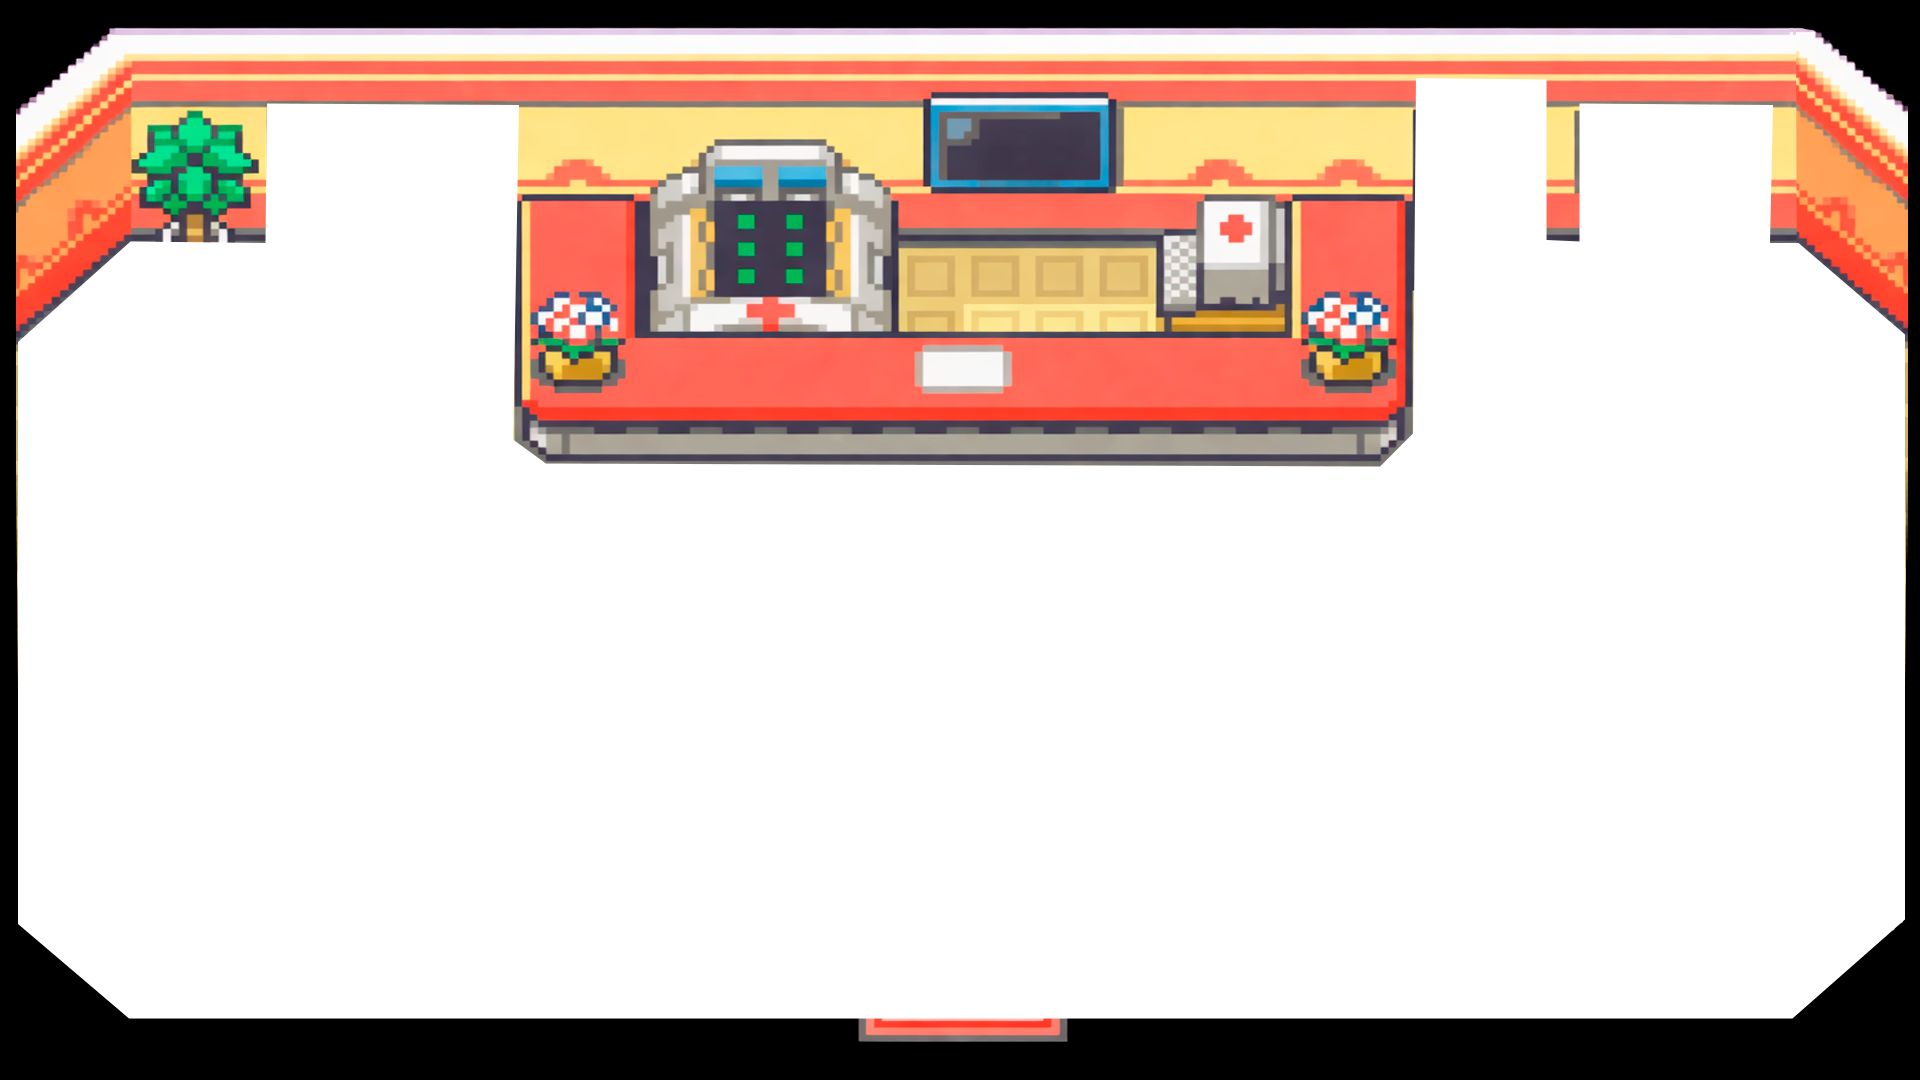
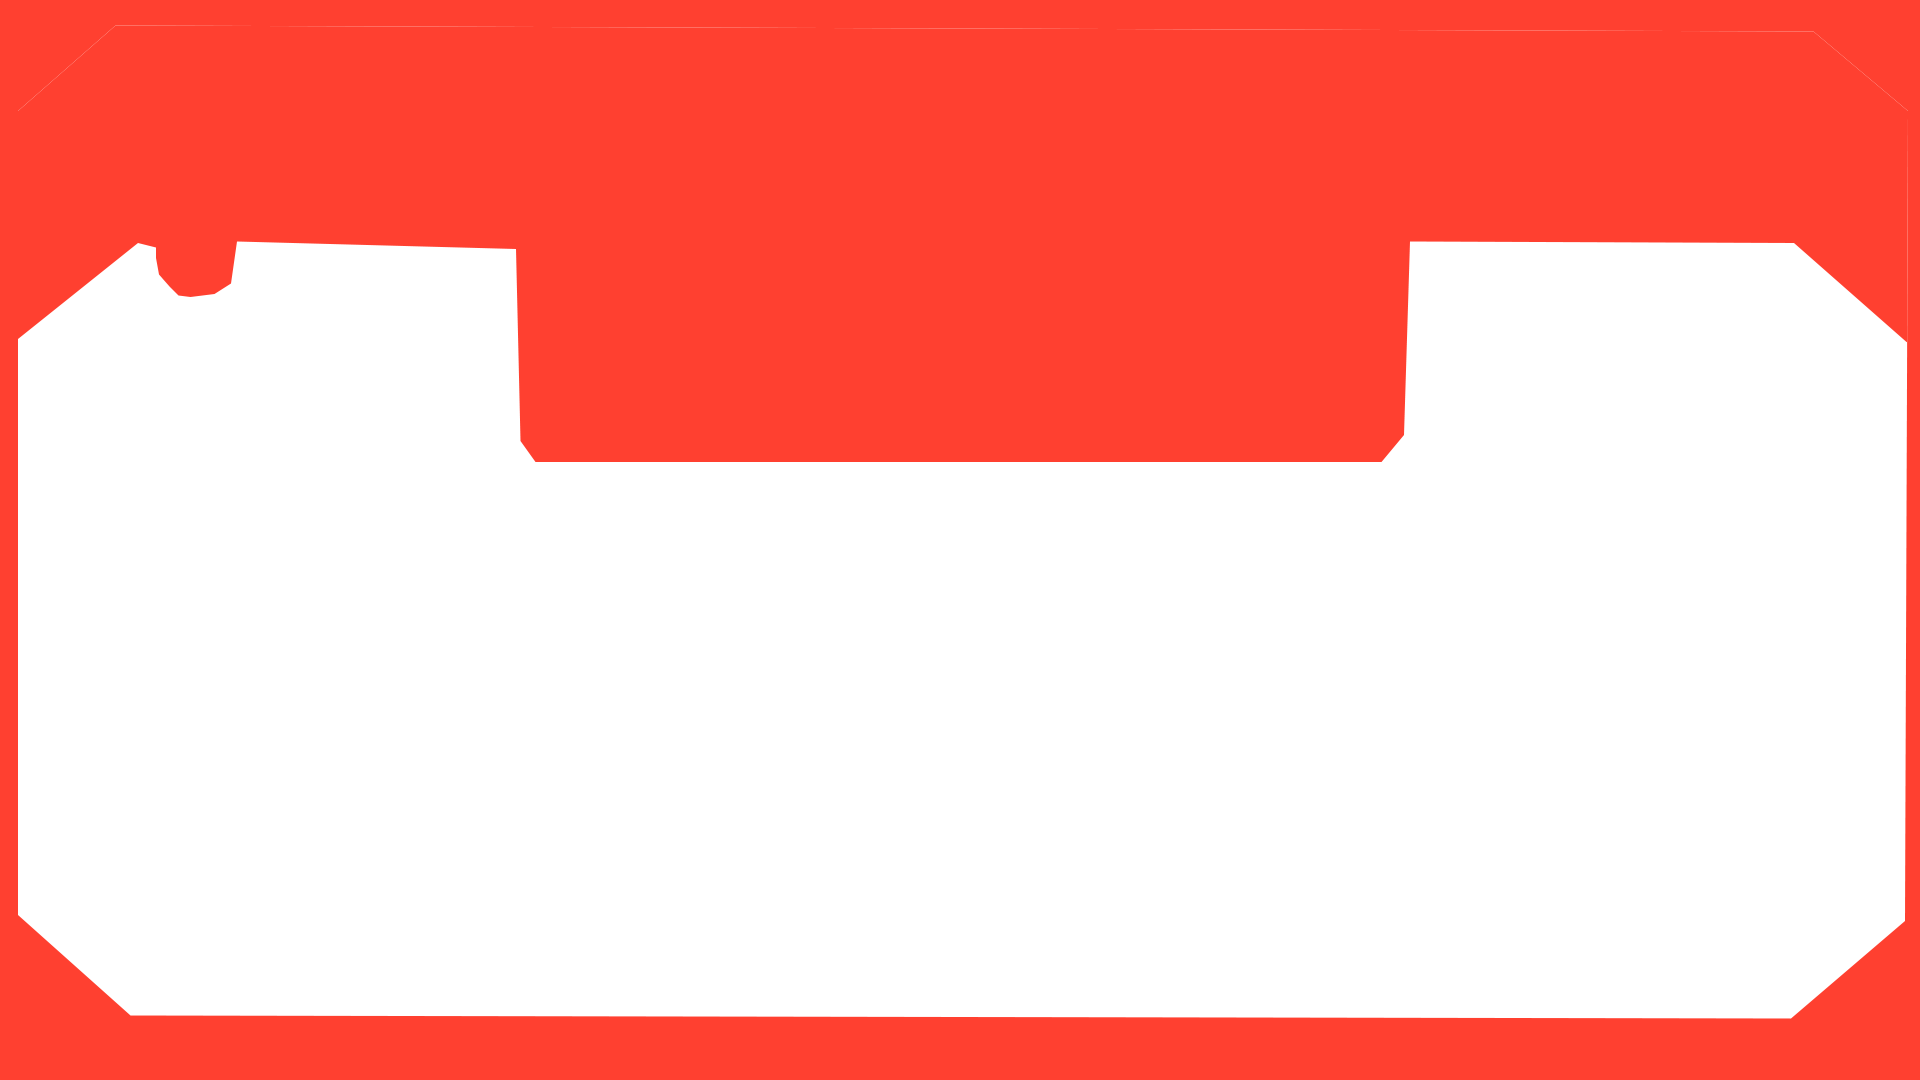
Commit Pablo Profe bgtransitable fallos

diff --git a/scripts.js b/scripts.js
@@ -17,8 +17,9 @@ const WALK_FRAME_DURATION = 140;
 const RUN_FRAME_DURATION = 90;
 const CLICK_STOP_DISTANCE = 6;
 const SHOW_COLLISION_DEBUG = true;
+const SHOW_WALKABLE_BOUNDARY = true;
 const RUN_KEY = "z";
-const WALKABLE_WHITE_THRESHOLD = 250;
+const ASSET_VERSION = Date.now();
 
 const viewport = {
     dpr: window.devicePixelRatio || 1,
@@ -61,6 +62,8 @@ let frameTimer = 0;
 let target = null;
 let isRunning = false;
 let walkableMaskData = null;
+let maskCollisionRects = [];
+let walkableBoundaryCanvas = null;
 const movementKeyOrder = [];
 
 backgroundCtx.imageSmoothingEnabled = false;
@@ -68,7 +71,8 @@ ctx.imageSmoothingEnabled = false;
 
 function loadSprite(src) {
     const image = new Image();
-    image.src = src;
+    const separator = src.includes("?") ? "&" : "?";
+    image.src = `${src}${separator}v=${ASSET_VERSION}`;
     return image;
 }
 
@@ -131,6 +135,8 @@ function handleAssetReady(image) {
 function cacheWalkableMask() {
     if (!assets.walkableMask.complete || !assets.walkableMask.naturalWidth) {
         walkableMaskData = null;
+        maskCollisionRects = [];
+        walkableBoundaryCanvas = null;
         return;
     }
 
@@ -142,6 +148,135 @@ function cacheWalkableMask() {
     maskCtx.imageSmoothingEnabled = false;
     maskCtx.drawImage(assets.walkableMask, 0, 0);
     walkableMaskData = maskCtx.getImageData(0, 0, maskCanvas.width, maskCanvas.height);
+    buildMaskCollisionRects();
+    cacheWalkableBoundary();
+    backgroundDirty = true;
+
+    if (!canMoveTo(player.x, player.y)) {
+        placePlayerAtRoomCenter();
+    }
+}
+
+function isCollisionMaskColor(data, pixelIndex) {
+    const alpha = data[pixelIndex + 3];
+
+    // The collision mask is authored as a dedicated overlay, so any visible pixel
+    // in bgtransitable should block movement regardless of slight color variation.
+    return alpha > 0;
+}
+
+function buildMaskCollisionRects() {
+    if (!walkableMaskData) {
+        maskCollisionRects = [];
+        return;
+    }
+
+    const maskWidth = walkableMaskData.width;
+    const maskHeight = walkableMaskData.height;
+    const sourceData = walkableMaskData.data;
+    const rects = [];
+    let activeRuns = new Map();
+
+    for (let y = 0; y < maskHeight; y++) {
+        const continuedRuns = new Map();
+        let x = 0;
+
+        while (x < maskWidth) {
+            const pixelIndex = (y * maskWidth + x) * 4;
+
+            if (!isCollisionMaskColor(sourceData, pixelIndex)) {
+                x += 1;
+                continue;
+            }
+
+            const startX = x;
+            x += 1;
+
+            while (x < maskWidth) {
+                const nextPixelIndex = (y * maskWidth + x) * 4;
+
+                if (!isCollisionMaskColor(sourceData, nextPixelIndex)) {
+                    break;
+                }
+
+                x += 1;
+            }
+
+            const runWidth = x - startX;
+            const runKey = `${startX}:${runWidth}`;
+            const existingRect = activeRuns.get(runKey);
+
+            if (existingRect) {
+                existingRect.height += 1;
+                continuedRuns.set(runKey, existingRect);
+                activeRuns.delete(runKey);
+                continue;
+            }
+
+            const newRect = {
+                x: startX,
+                y,
+                width: runWidth,
+                height: 1
+            };
+
+            rects.push(newRect);
+            continuedRuns.set(runKey, newRect);
+        }
+
+        activeRuns = continuedRuns;
+    }
+
+    maskCollisionRects = rects;
+}
+
+function cacheWalkableBoundary() {
+    if (!walkableMaskData) {
+        walkableBoundaryCanvas = null;
+        return;
+    }
+
+    const boundaryCanvas = document.createElement("canvas");
+    boundaryCanvas.width = walkableMaskData.width;
+    boundaryCanvas.height = walkableMaskData.height;
+
+    const boundaryCtx = boundaryCanvas.getContext("2d");
+    const boundaryImageData = boundaryCtx.createImageData(boundaryCanvas.width, boundaryCanvas.height);
+    const sourceData = walkableMaskData.data;
+    const boundaryData = boundaryImageData.data;
+    const rowStride = boundaryCanvas.width * 4;
+
+    for (let y = 0; y < boundaryCanvas.height; y++) {
+        for (let x = 0; x < boundaryCanvas.width; x++) {
+            const pixelIndex = (y * boundaryCanvas.width + x) * 4;
+
+            if (!isCollisionMaskColor(sourceData, pixelIndex)) {
+                continue;
+            }
+
+            const touchesOutside =
+                x === 0 ||
+                y === 0 ||
+                x === boundaryCanvas.width - 1 ||
+                y === boundaryCanvas.height - 1 ||
+                !isCollisionMaskColor(sourceData, pixelIndex - 4) ||
+                !isCollisionMaskColor(sourceData, pixelIndex + 4) ||
+                !isCollisionMaskColor(sourceData, pixelIndex - rowStride) ||
+                !isCollisionMaskColor(sourceData, pixelIndex + rowStride);
+
+            if (!touchesOutside) {
+                continue;
+            }
+
+            boundaryData[pixelIndex] = 255;
+            boundaryData[pixelIndex + 1] = 244;
+            boundaryData[pixelIndex + 2] = 92;
+            boundaryData[pixelIndex + 3] = 255;
+        }
+    }
+
+    boundaryCtx.putImageData(boundaryImageData, 0, 0);
+    walkableBoundaryCanvas = boundaryCanvas;
 }
 
 Object.values(assets).forEach((image) => {
@@ -247,48 +382,12 @@ function collidesWithObstacle(hitbox) {
     return collisionRects.some((obstacle) => rectanglesOverlap(hitbox, obstacle));
 }
 
-function isWalkablePixel(worldX, worldY) {
-    if (!walkableMaskData) {
-        return !collidesWithObstacle({
-            x: worldX,
-            y: worldY,
-            width: 1,
-            height: 1
-        });
-    }
-
-    const pixelX = Math.max(0, Math.min(WORLD_WIDTH - 1, Math.round(worldX)));
-    const pixelY = Math.max(0, Math.min(WORLD_HEIGHT - 1, Math.round(worldY)));
-    const pixelIndex = (pixelY * walkableMaskData.width + pixelX) * 4;
-    const data = walkableMaskData.data;
-    const alpha = data[pixelIndex + 3];
-
-    if (alpha === 0) {
+function collidesWithMask(hitbox) {
+    if (!maskCollisionRects.length) {
         return false;
     }
 
-    return (
-        data[pixelIndex] >= WALKABLE_WHITE_THRESHOLD &&
-        data[pixelIndex + 1] >= WALKABLE_WHITE_THRESHOLD &&
-        data[pixelIndex + 2] >= WALKABLE_WHITE_THRESHOLD
-    );
-}
-
-function isWalkableHitbox(hitbox) {
-    const startX = Math.max(0, Math.floor(hitbox.x));
-    const startY = Math.max(0, Math.floor(hitbox.y));
-    const endX = Math.min(WORLD_WIDTH - 1, Math.ceil(hitbox.x + hitbox.width) - 1);
-    const endY = Math.min(WORLD_HEIGHT - 1, Math.ceil(hitbox.y + hitbox.height) - 1);
-
-    for (let sampleY = startY; sampleY <= endY; sampleY++) {
-        for (let sampleX = startX; sampleX <= endX; sampleX++) {
-            if (!isWalkablePixel(sampleX, sampleY)) {
-                return false;
-            }
-        }
-    }
-
-    return true;
+    return maskCollisionRects.some((obstacle) => rectanglesOverlap(hitbox, obstacle));
 }
 
 function canMoveTo(nextX, nextY) {
@@ -302,7 +401,7 @@ function canMoveTo(nextX, nextY) {
     }
 
     const playerHitbox = getPlayerHitbox(nextX, nextY);
-    return isWalkableHitbox(playerHitbox) && !collidesWithObstacle(playerHitbox);
+    return !collidesWithMask(playerHitbox) && !collidesWithObstacle(playerHitbox);
 }
 
 function placePlayerAtRoomCenter() {
@@ -357,6 +456,16 @@ function drawBackground(worldRect) {
         worldRect.width,
         worldRect.height
     );
+
+    if (SHOW_WALKABLE_BOUNDARY && walkableBoundaryCanvas) {
+        backgroundCtx.drawImage(
+            walkableBoundaryCanvas,
+            worldRect.x,
+            worldRect.y,
+            worldRect.width,
+            worldRect.height
+        );
+    }
 }
 
 function drawNpc(worldRect) {
@@ -445,6 +554,29 @@ function drawCollisionDebug(worldRect) {
     ctx.save();
     ctx.lineWidth = 1;
 
+    if (assets.walkableMask.complete && assets.walkableMask.naturalWidth) {
+        ctx.save();
+        ctx.globalAlpha = 0.18;
+        ctx.drawImage(
+            assets.walkableMask,
+            worldRect.x,
+            worldRect.y,
+            worldRect.width,
+            worldRect.height
+        );
+        ctx.restore();
+    }
+
+    if (walkableBoundaryCanvas) {
+        ctx.drawImage(
+            walkableBoundaryCanvas,
+            worldRect.x,
+            worldRect.y,
+            worldRect.width,
+            worldRect.height
+        );
+    }
+
     collisionRects.forEach((obstacle) => {
         const screenX = Math.round(worldToScreenX(obstacle.x, worldRect));
         const screenY = Math.round(worldToScreenY(obstacle.y, worldRect));
@@ -462,6 +594,8 @@ function drawCollisionDebug(worldRect) {
     const playerScreenY = Math.round(worldToScreenY(playerHitbox.y, worldRect));
     const playerScreenWidth = Math.max(1, Math.round(worldToScreenWidth(playerHitbox.width, worldRect)));
     const playerScreenHeight = Math.max(1, Math.round(worldToScreenHeight(playerHitbox.height, worldRect)));
+    const isMaskCollisionActive = collidesWithMask(playerHitbox);
+    const isRectCollisionActive = collidesWithObstacle(playerHitbox);
 
     ctx.strokeStyle = "rgba(0, 255, 160, 0.95)";
     ctx.strokeRect(
@@ -472,13 +606,15 @@ function drawCollisionDebug(worldRect) {
     );
 
     ctx.fillStyle = "rgba(8, 12, 18, 0.8)";
-    ctx.fillRect(worldRect.x + 12, worldRect.y + 12, 220, 56);
+    ctx.fillRect(worldRect.x + 12, worldRect.y + 12, 260, 84);
     ctx.fillStyle = "#ffffff";
     ctx.font = "12px monospace";
     ctx.textBaseline = "top";
-    ctx.fillText(`Mode: ${walkableMaskData ? "white-mask + rects" : "rects"}`, worldRect.x + 20, worldRect.y + 20);
+    ctx.fillText(walkableMaskData ? "Mode: red-mask + rects" : "Mode: rects only", worldRect.x + 20, worldRect.y + 20);
     ctx.fillText(`Player: ${Math.round(player.x)}, ${Math.round(player.y)}`, worldRect.x + 20, worldRect.y + 34);
-    ctx.fillText(walkableMaskData ? "Source: bgtransitable + HsLD" : "Source: HsLD baked", worldRect.x + 20, worldRect.y + 48);
+    ctx.fillText(walkableMaskData ? "Source: bgtransitable red + HsLD" : "Source: HsLD rects", worldRect.x + 20, worldRect.y + 48);
+    ctx.fillText(`Mask hit: ${isMaskCollisionActive} Rect hit: ${isRectCollisionActive}`, worldRect.x + 20, worldRect.y + 62);
+    ctx.fillText(`Mask rects: ${maskCollisionRects.length}`, worldRect.x + 20, worldRect.y + 76);
 
     ctx.restore();
 }

diff --git a/index.html b/index.html
@@ -13,7 +13,7 @@
   <canvas id="gameCanvas"></canvas>
 
   <!-- Script -->
-  <script src="scripts.js"></script>
+  <script src="scripts.js?v=mask-rects-debug"></script>
 
 </body>
 </html>
